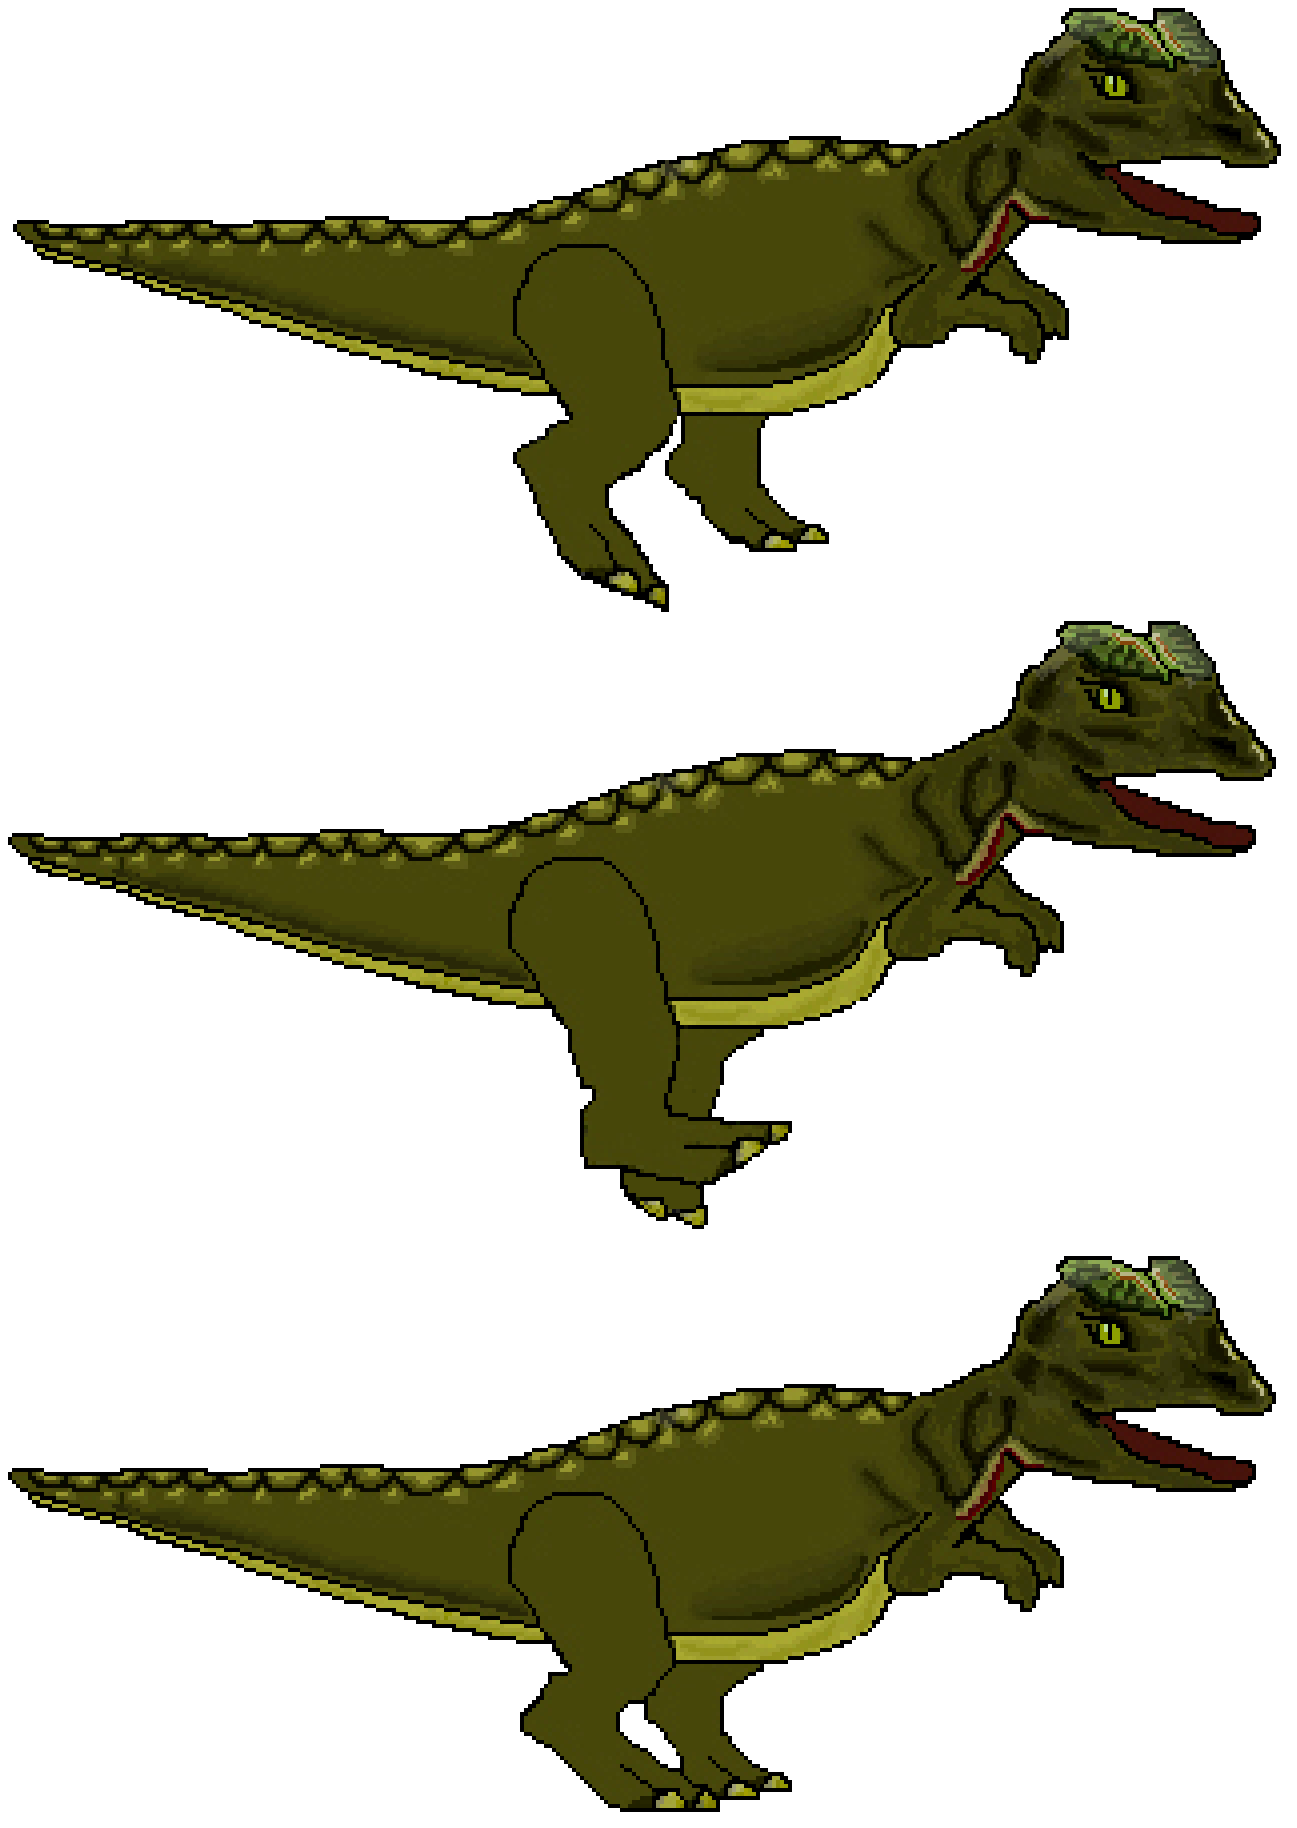
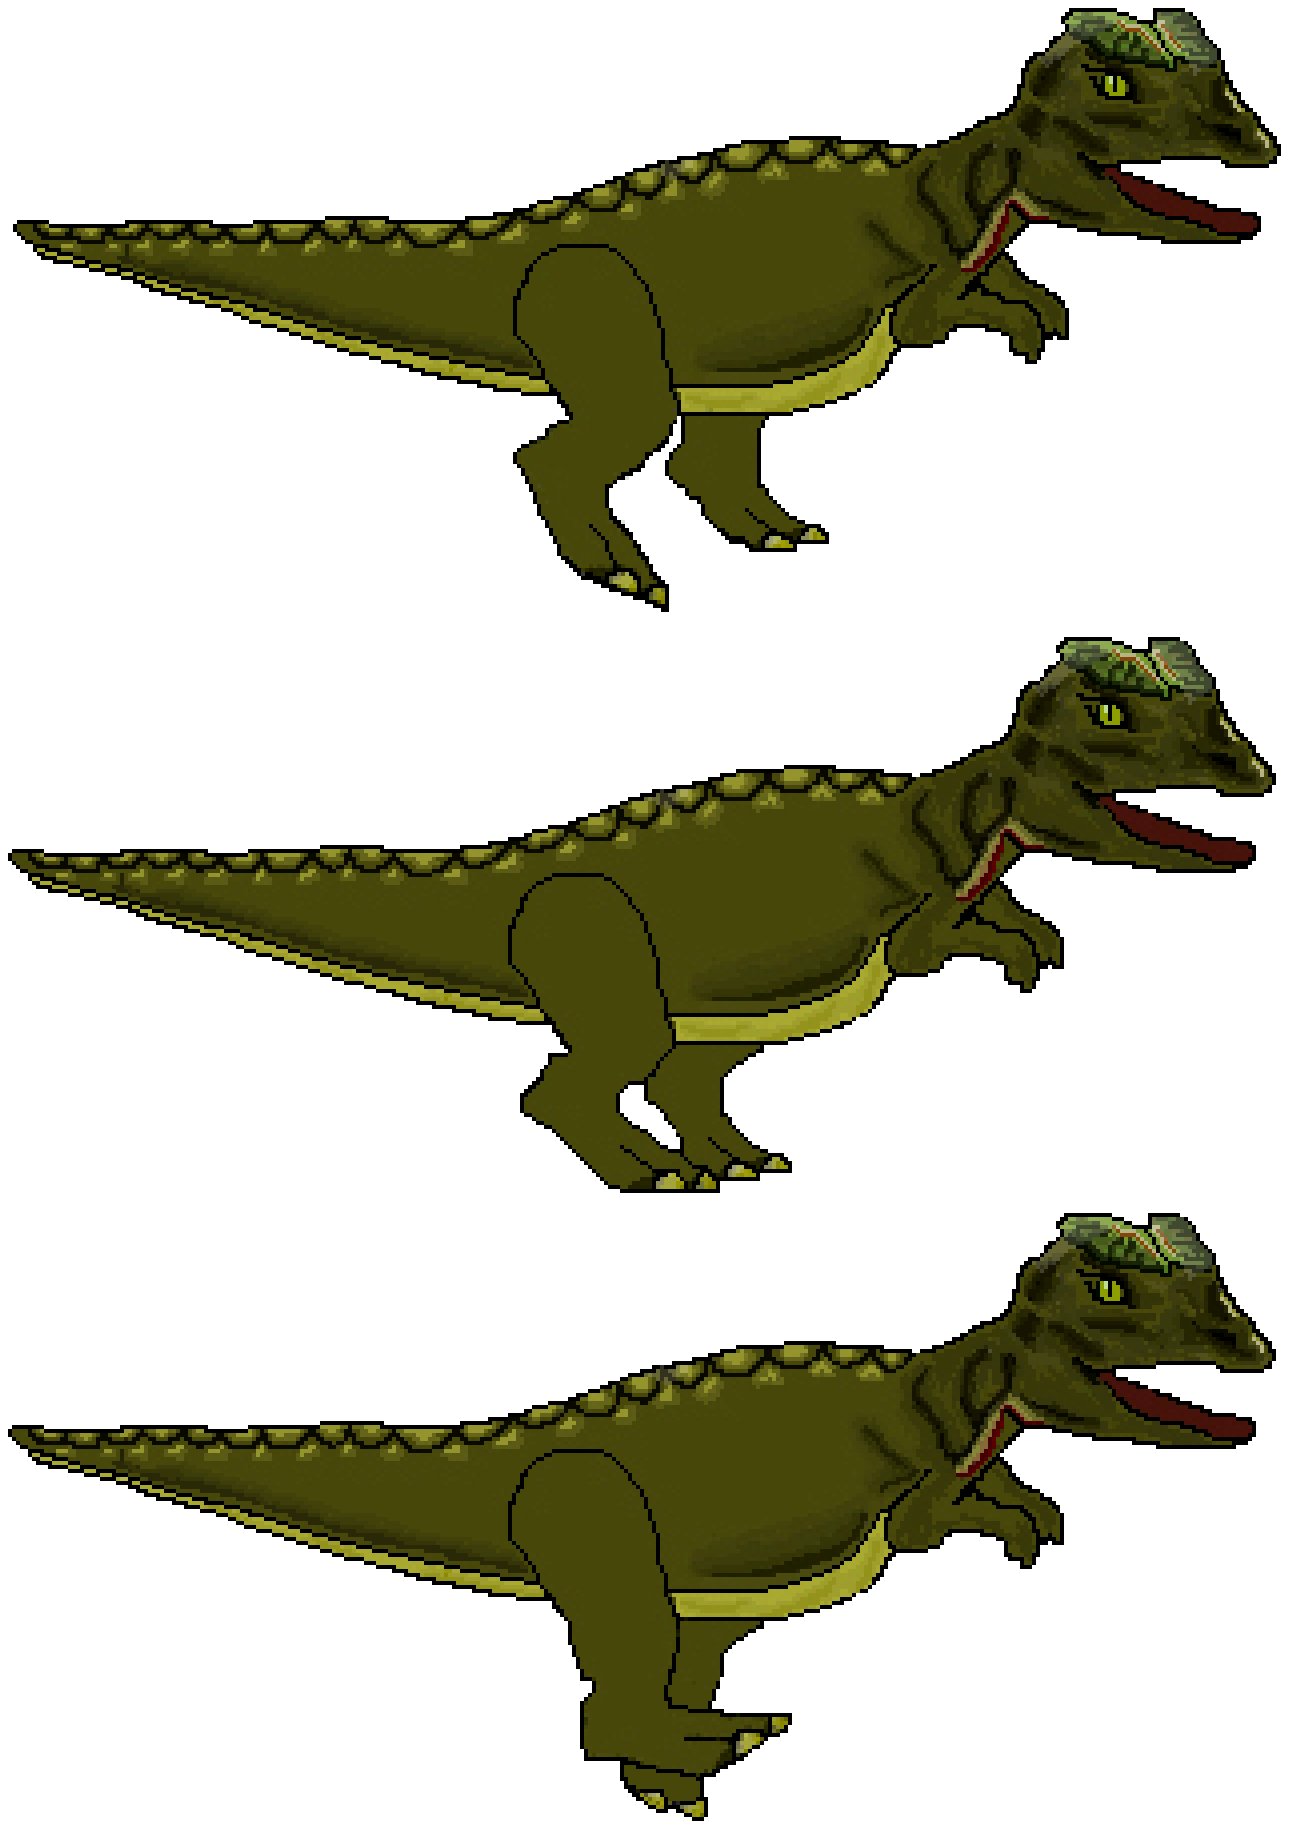
dilo

Changed region(s): [[0.0, 0.6548, 0.9869, 0.9978], [0.0, 0.343, 0.9869, 0.686]]

diff --git a/src/scenes/Test2.js b/src/scenes/Test2.js
@@ -547,7 +547,7 @@ export default class Test2 extends Phaser.Scene {
           this.stego = this.physics.add.sprite(this.sStegoX, this.sStegoY, 'stego');
           this.stego.setCollideWorldBounds(true);
           this.stego.body.setSize(256, 128, this.sStegoX, this.sStegoY);
-          this.stego.setScale(0.25);
+          this.stego.setScale(0.2);
           this.stego.setDepth(-1);
           this.stego.health = 50;
           this.stego.boss = false;
@@ -857,7 +857,7 @@ export default class Test2 extends Phaser.Scene {
       }
       try {
         this.mount.flipX = true;
-        this.mount.body.setOffset(50, 320);
+        this.mount.body.setOffset(250, 420);
 
       }
       catch {}
@@ -886,7 +886,7 @@ export default class Test2 extends Phaser.Scene {
       }
       try {
         this.mount.flipX = false;
-        this.mount.body.setOffset(1150, 320);
+        this.mount.body.setOffset(450, 420);
       }
       catch {}
 
@@ -911,6 +911,7 @@ export default class Test2 extends Phaser.Scene {
     } else if (this.w.isDown || this.cursors.up.isDown) {
       if(this.player.isMounted){
       this.mount.anims.play('stepBack', true);
+      this.mount.body.setOffset(150, 420);
       }
 
       //dodge roll
@@ -1243,10 +1244,6 @@ export default class Test2 extends Phaser.Scene {
       enemy.health -= 10;
     }
 
-    var walkAn = this.anims.get('step');
-    var newFrames = this.anims.generateFrameNames('chomp');
-    walkAn.addFrame(newFrames);
-
     // if(this.player.isMounted){
     // this.mount.anims.pause();
     // this.mount.anims.play('chomp', true);
@@ -1402,8 +1399,8 @@ export default class Test2 extends Phaser.Scene {
           this.mount = this.physics.add.sprite(this.player.x, this.player.y, 'stego');
           this.mount.setScale(.25);
           this.mount.setDepth(-10);
-          this.mount.body.setSize(70, 70);
-          this.mount.body.setOffset(870, 350);
+          this.mount.body.setSize(600, 70);
+          this.mount.body.setOffset(470, 850);
           this.player.isMounted = true;
           this.mount.boss = false;
           this.mount.boss2 = true;

diff --git a/src/scenes/Level2.js b/src/scenes/Level2.js
@@ -555,7 +555,7 @@ export default class Level2 extends Phaser.Scene {
           this.stego1.stunTimer = 0;
           this.stego1.isStunned = false;
           this.enemyGroup.add(this.stego1);
-          //this.stego1.anims.play('step', true);
+          this.stego1.anims.play('dstep', true);
     }
     if (!this.stegoSpawned && this.kills == 50) {
       this.stegoSpawned = true;

diff --git a/src/index.js b/src/index.js
@@ -18,7 +18,7 @@ class Game extends Phaser.Game {
 
 
     //this.scene.add('Scene1', Scene1);
-    this.scene.start('Level2');
+    this.scene.start('Test2');
   }
 }
 
